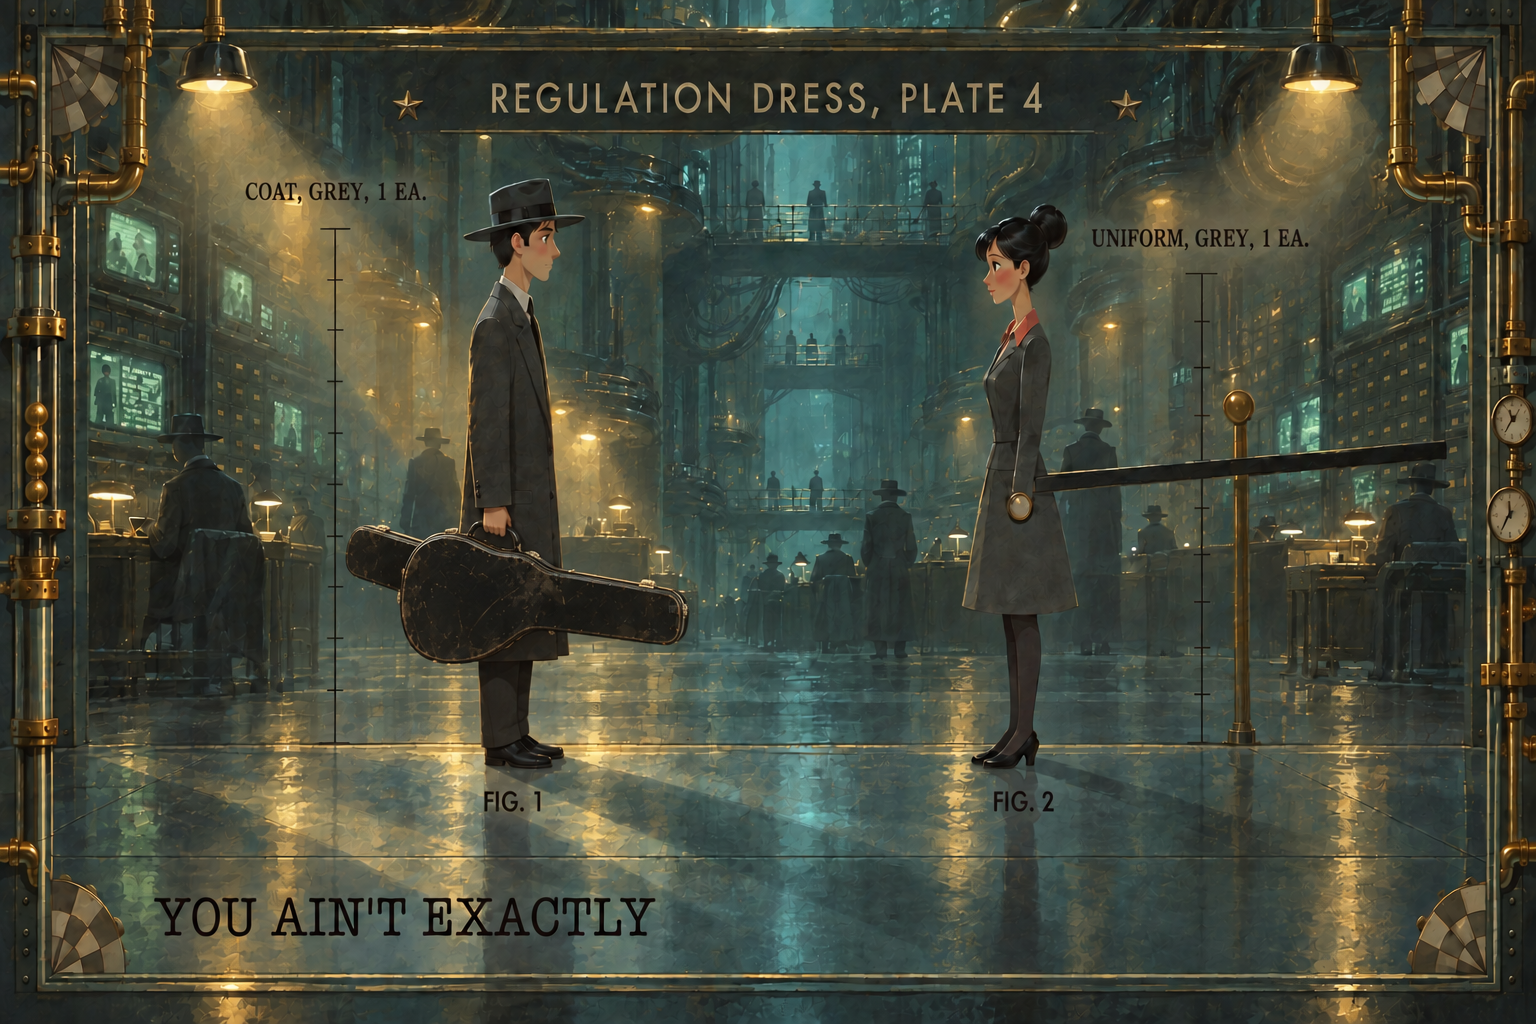
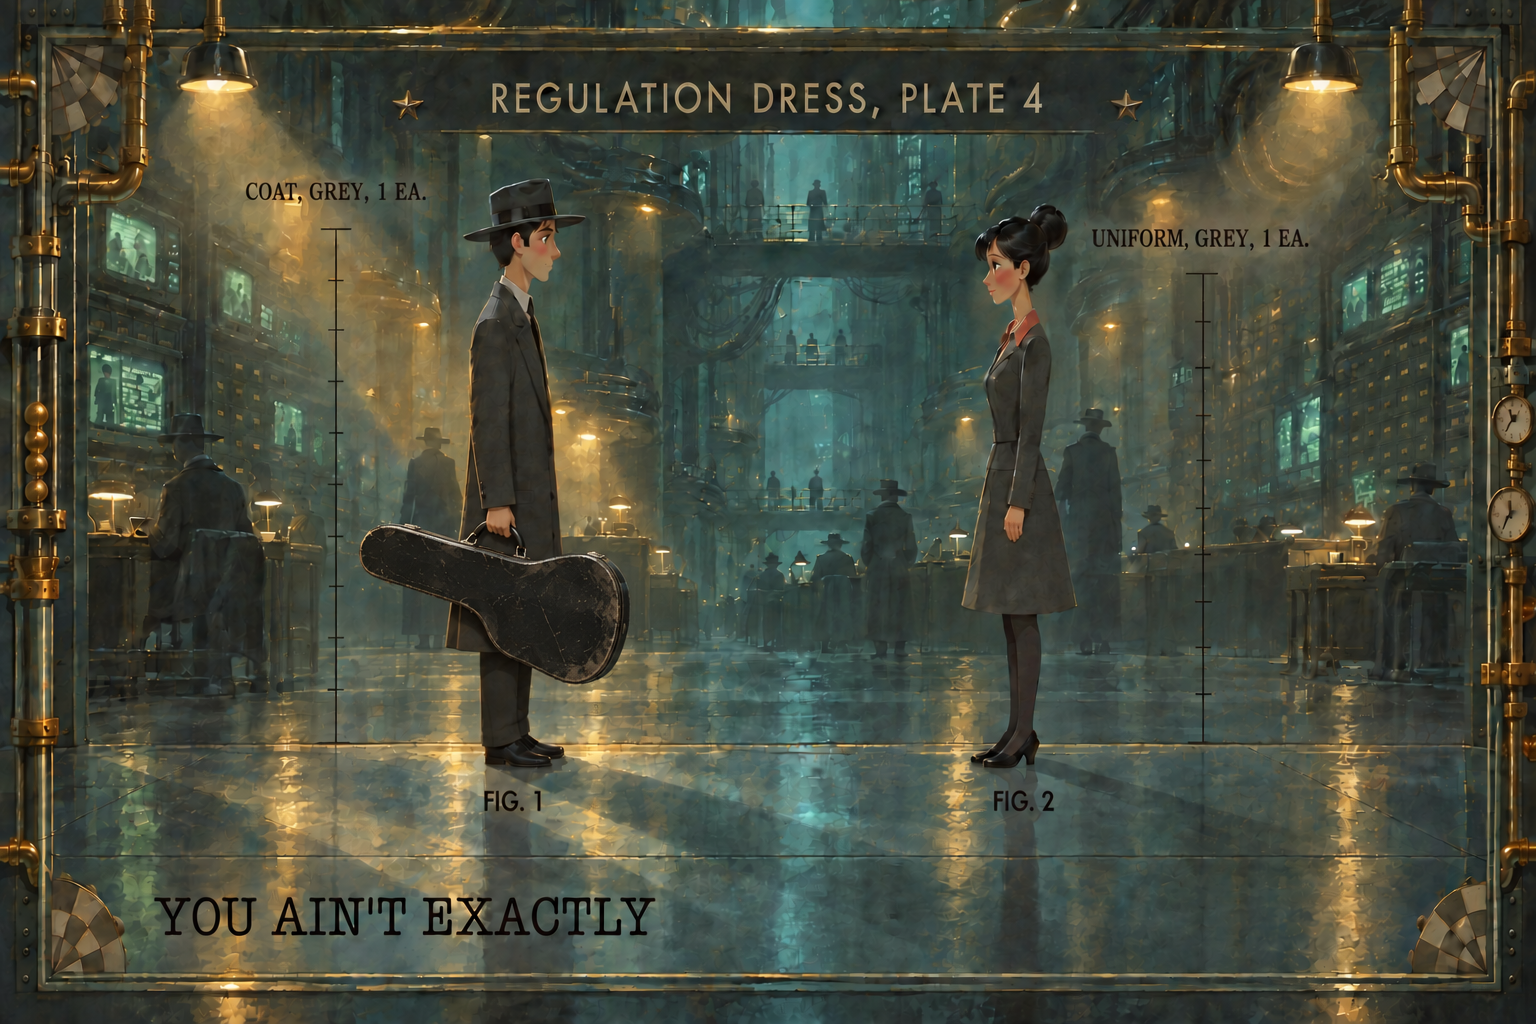
We Got Time world v13: nightmare pass, snap back to reality
The nightmare-stretch stills are repainted colder and flatter, with the
bodiless chair-head clerks, in keyframes_nm/, which the animatic now prefers
over the cinematic pass (the first attempt copied the style image's layout;
those are in keyframes_nm/rejected/). Adds him jolting awake at his real
terminal at 58.9 s, and fixes the 1:17 case by removing every case and the
stray rod first, then adding one.

Closes #74

diff --git a/bobwiseman-wgt-generative/world/animatic.py b/bobwiseman-wgt-generative/world/animatic.py
@@ -52,9 +52,14 @@ def entry_span(e, cuts):
 def upgraded(path):
     """The newest-style version of a still, if the style pass has made one (keyframes_v2/<flattened name>)."""
     if path.startswith('keyframes_v2/'):
-        return path
+        nm = os.path.join(HERE, 'keyframes_nm', path.split('/', 1)[1])
+        return 'keyframes_nm/' + path.split('/', 1)[1] if os.path.exists(nm) else path
     name = re.sub(r'^(\.\./)+', '', path).replace('keyframes/', '').replace('/', '__')
-    return f'keyframes_v2/{name}' if os.path.exists(os.path.join(HERE, 'keyframes_v2', name)) else path
+    # nightmare-world versions (flat, cold) win over the cinematic style pass
+    for d in ('keyframes_nm', 'keyframes_v2'):
+        if os.path.exists(os.path.join(HERE, d, name)):
+            return f'{d}/{name}'
+    return path
 
 
 def still_segment(path, n, focus, out):
